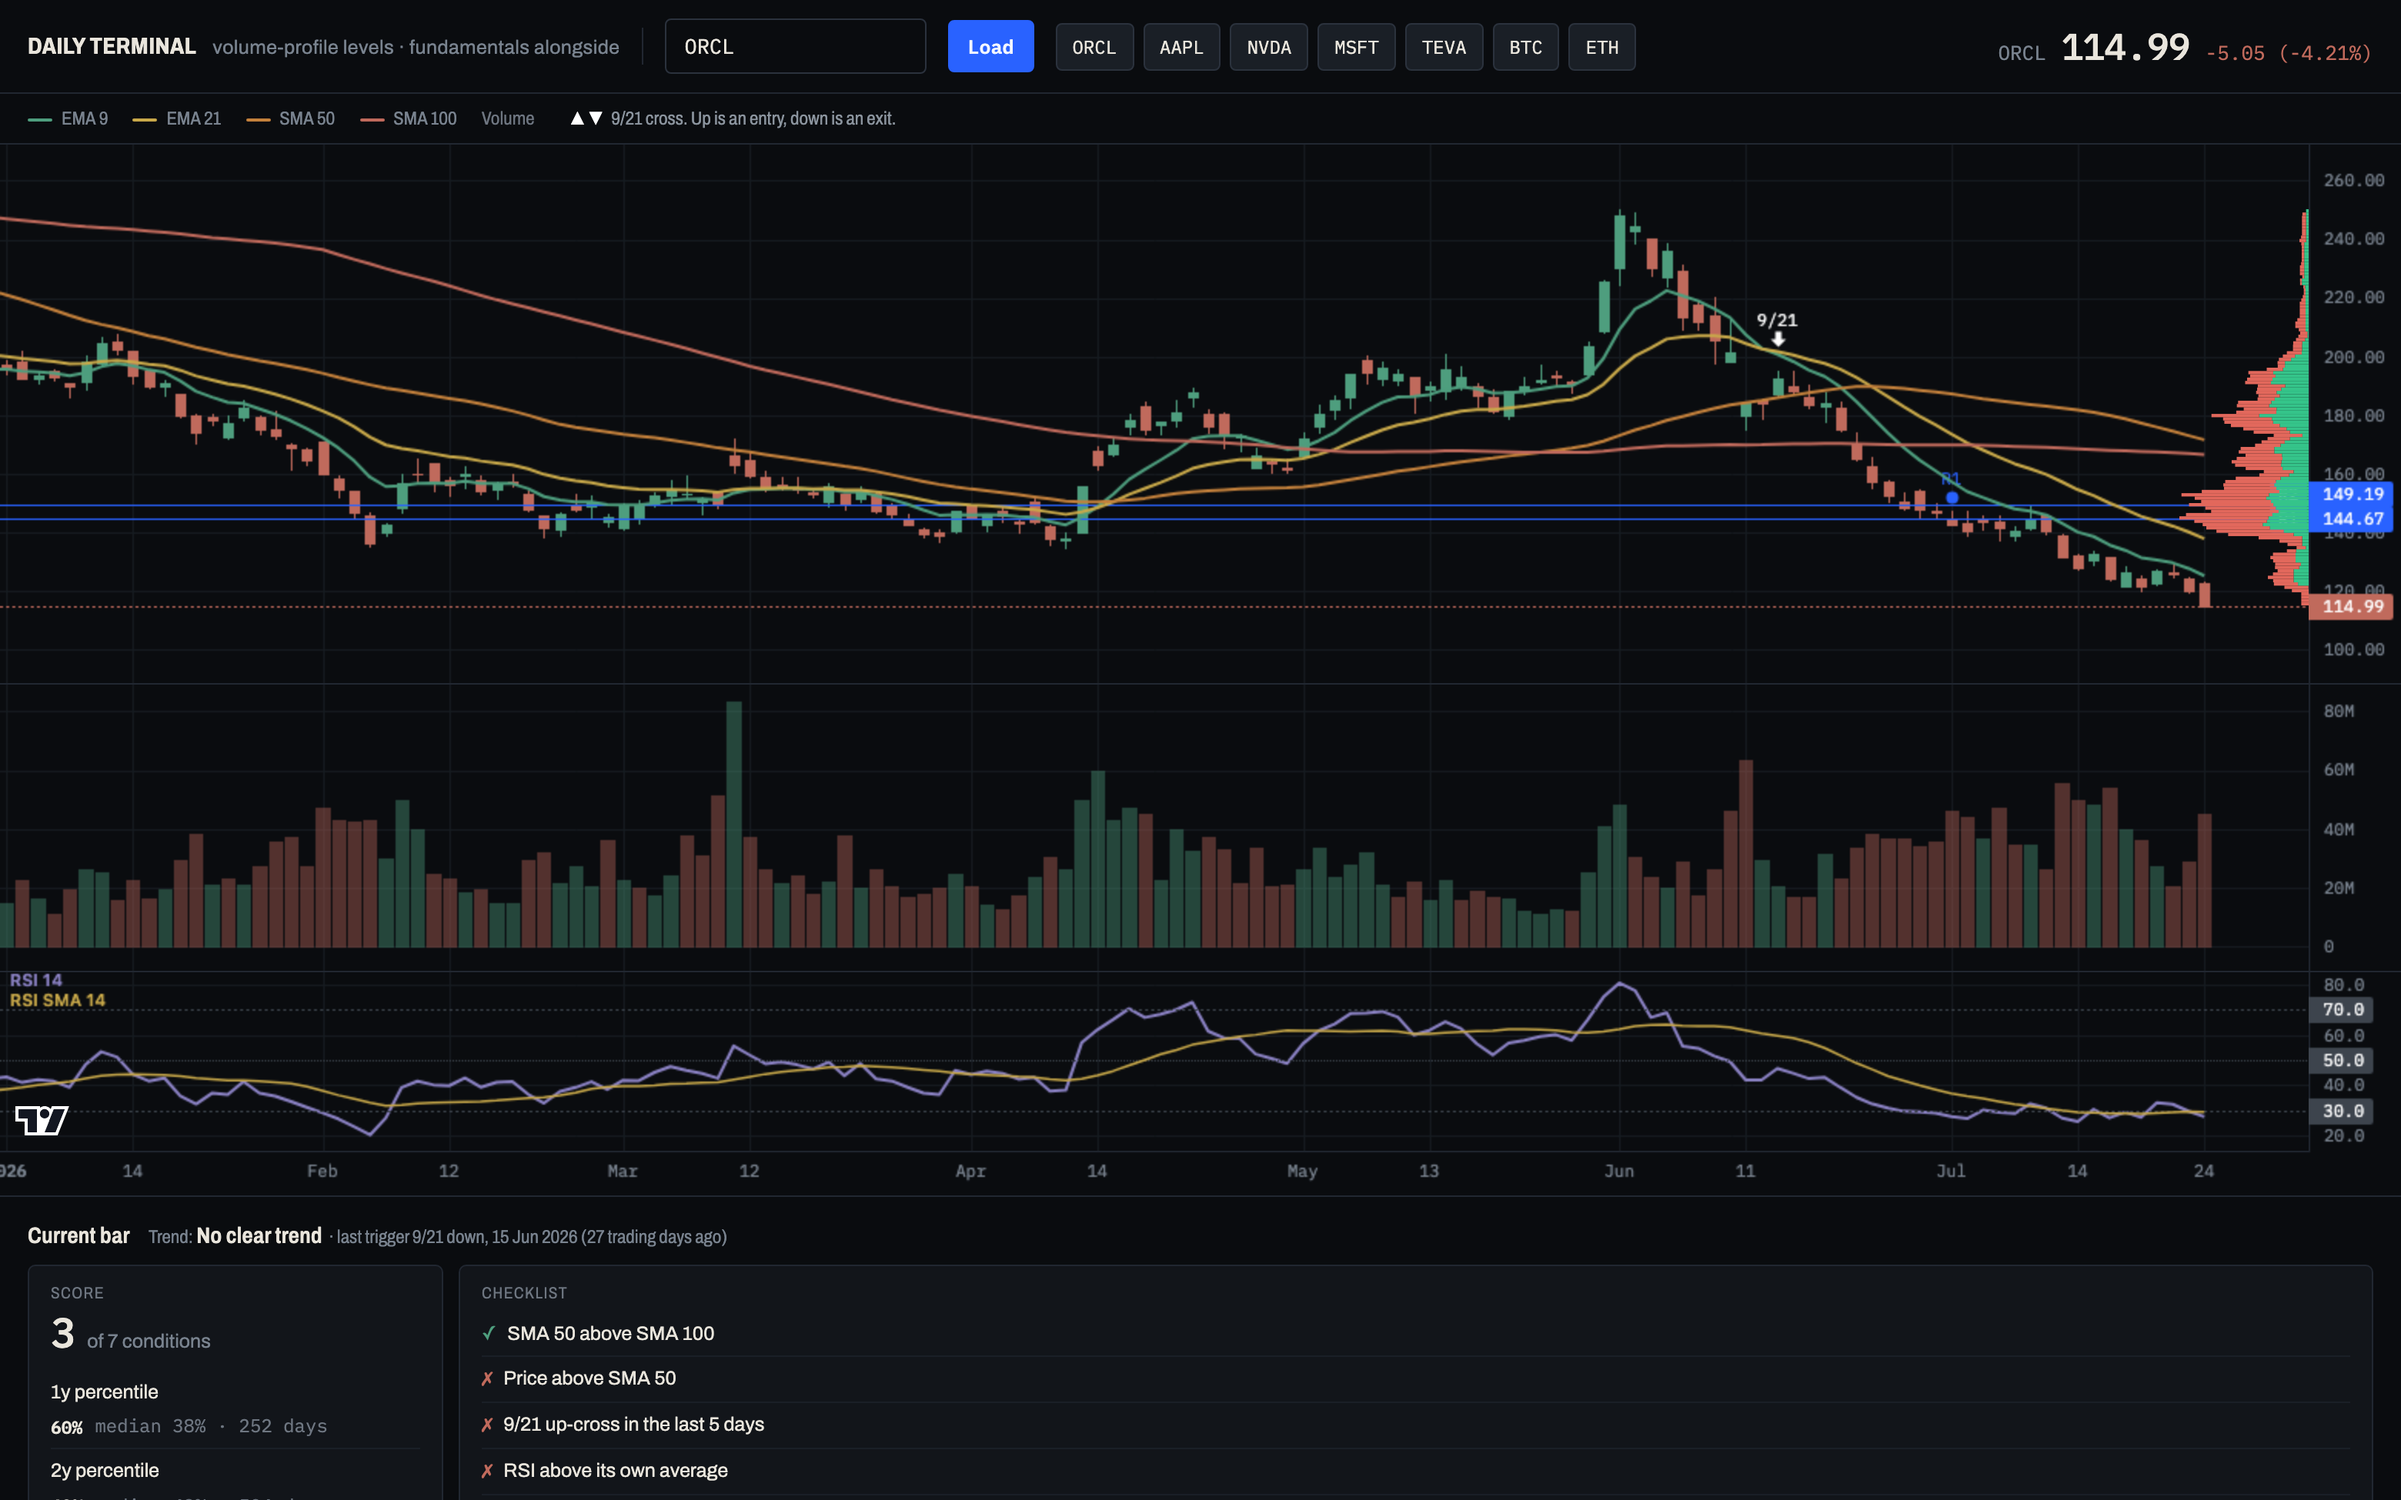
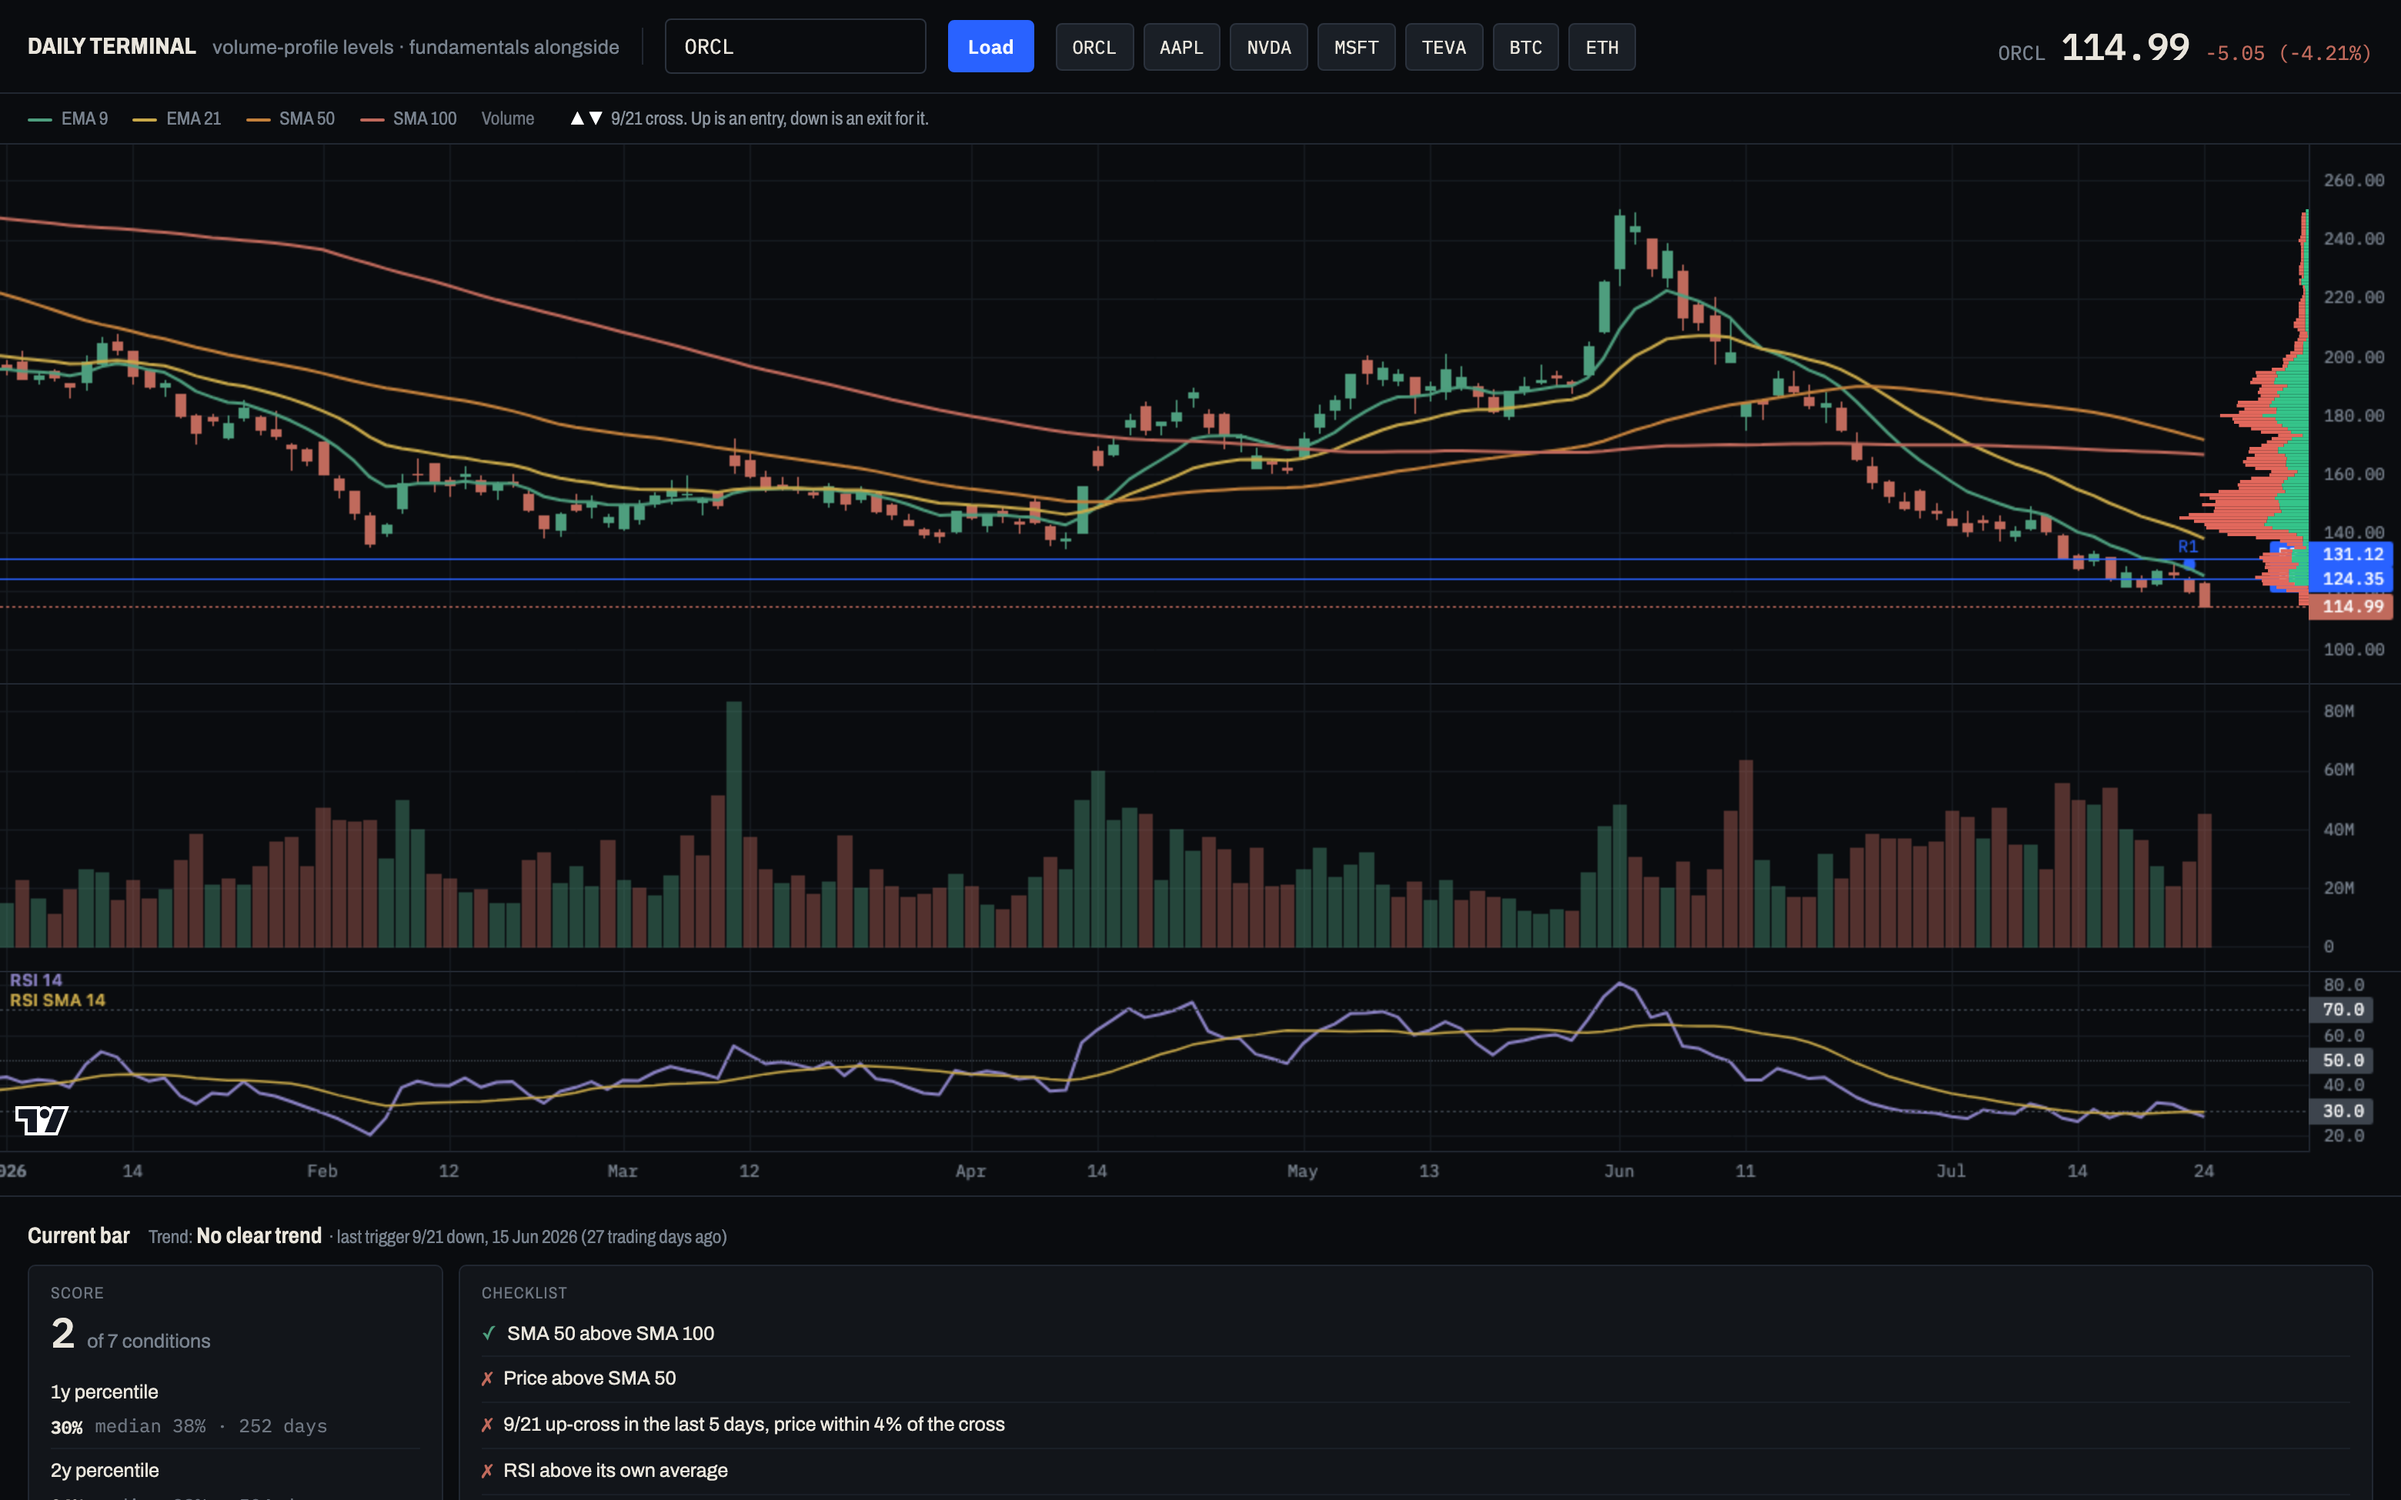
docs: add the worked-example section, and refresh the stale screenshots
- "Reading one screen" walks the ORCL capture from chart to verdict,
  arguing each element rather than listing it
- both screenshots regenerated at 2x: the committed ones still showed the
  pre-27-Jul rules (RSI 50-70, no up-bar volume test, levels 144.67/149.19)
- PLAN.md updated; suite 160/160 before commit

Changed region(s): [[0.0, 0.2769, 1.0, 0.4], [0.342, 0.9231, 0.4042, 0.9538], [0.8083, 0.3077, 0.8394, 0.3385]]

diff --git a/PLAN.md b/PLAN.md
@@ -6,7 +6,7 @@
 ## Current Status
 
 **Active phase:** Phase 4 — portfolio framing
-**Active task:** the worked example — a README section that reads one screen end to end
+**Active task:** none open — next candidate: decide whether Phase 4 needs anything beyond the worked example, or close it
 **Last updated:** 2026-07-27
 
 The app is feature-complete and live on GitHub Pages. The English migration and the
@@ -29,7 +29,8 @@ entirely, and on multi-year windows zooming out barely moves the levels.
 ## Tasks — Active Phase
 
 - [x] Bring the README's level description current with the 27 Jul maths — Done when: age weighting, the decay consequence and volatility-scaled separation appear in the levels paragraph with their reasons, and no claim contradicts `index.html`
-- [ ] Worked example: read one screen — Done when: a short README section walks the ORCL screenshot from chart to verdict, arguing why each element earns its place rather than listing it
+- [x] Worked example: read one screen — Done when: a short README section walks the ORCL screenshot from chart to verdict, arguing why each element earns its place rather than listing it
+- [x] Regenerate both README screenshots (found stale mid-task) — Done when: the images show the post-27-Jul rules and levels at the original 2x dimensions
 
 ## Deadlines
 
@@ -46,6 +47,7 @@ None.
 
 ## Session Log
 
+2026-07-27 | Worked example added to the README, and both screenshots regenerated after they turned out to show the pre-27-Jul rules | Done | Verified by: every number in the new section read off the freshly captured panels (score 2/7, R1 124.35 +8.1%, R2 131.12 +14.0%, percentiles 30/26, verdict 5/8), images match the original 2x dimensions, suite 160/160 | Next: decide whether Phase 4 needs more or closes
 2026-07-27 | Backlog sweep + Phase 4 opened: deleted dead flagsAt(), added the HVN-as-magnet limit to METHODOLOGY.md, synced the README's level maths (age decay, volatility-scaled separation) | Done | Verified by: suite 160/160 after the code deletion, every new README claim traced to a constant or the method note in index.html, assertion count unchanged so the three quote sites stay correct | Next: the worked-example README section
 2026-07-27 | Sync METHODOLOGY.md with the new scoring and level rules | Done | Verified by: the four contradicting claims corrected plus a fifth found on the full re-read (the exit rule is ungated, but the arrow now needs an open entry), and every bolded threshold in the document mapped back to a constant in index.html | Next: the two cosmetic P4s remain
 2026-07-27 | Six strategy-logic corrections: RSI floor 40, 4% anti-chase cap, volatility-scaled separation, 126-bar time decay, gated exit markers, HVN caveat | Done | Verified by: suite 160/160; ORCL scores 2 of 7 and BTCUSDT 4 of 8; zoom and pan exercised across five windows on both symbols with the profile canvas re-inking each time; AAPL checked against the live API since it is not in the fixtures | Next: sync METHODOLOGY.md

diff --git a/README.md b/README.md
@@ -89,6 +89,36 @@ pipeline stops being the primary source instead of quietly serving last quarter'
 reads differently from a weak one that happens to look good on the chart, and neither layer
 says that alone.
 
+## Reading one screen
+
+The screenshots above are a single real read — ORCL on 24 July 2026 — and worth walking
+through, because every claim on the screen can be checked against the panel next to it.
+
+**The chart says why the score is low.** ORCL closed at 114.99, down 4.2%, under the whole
+moving-average ribbon, and the last trigger was a 9/21 *down*-cross 27 trading days earlier.
+The checklist agrees line by line: 2 of 7, with the regime gate still passing — SMA 50 has not
+yet crossed under SMA 100 — and nearly everything else failing. The category bars show the
+shape of the failure at a glance: momentum 0 of 3, trigger 0 of 1.
+
+**The levels say where it is.** The visible window built its histogram from 140 bars and found
+seven clusters, and price is under every one of them. So resistance reads 124.35 (+8.1%) and
+131.12 (+14.0%), support does not exist, and the panel says exactly that instead of inventing a
+floor. That absence is also why reward-to-risk is n/a rather than a free point: the room to
+resistance is real and scores, but there is no level below to measure the risk half against.
+The most recent break agrees with the direction — 23 July closed below 124.35.
+
+**The percentile blocks the obvious shortcut.** 2 of 7 looks bad in the absolute; the
+percentile says it really is bad *for ORCL*: 30th over one year, 26th over two, against a
+median of 38%. When the two windows agree, the regime has not changed — this is an ordinary
+weak day, not an unusual one.
+
+**The fundamental panel is why the read is interesting at all.** 5 of 8 Solid, PEG 0.65,
+implied value 128% above price, and the two independent price sources agreeing to 0.00%. The
+joining line compresses it: good business, poor timing. Neither layer says that alone — the
+chart alone reads "avoid", the scorecard alone reads "cheap quality" — and the point of the
+terminal is that the sentence is produced by stated rules, on one screen, with the method one
+click away.
+
 ## Skills demonstrated
 
 | Feature | Skill it proves |
